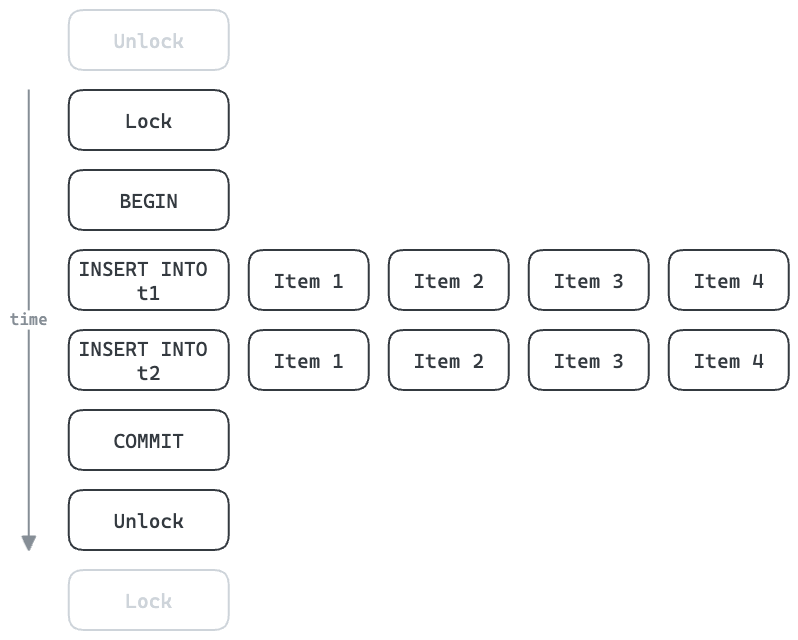
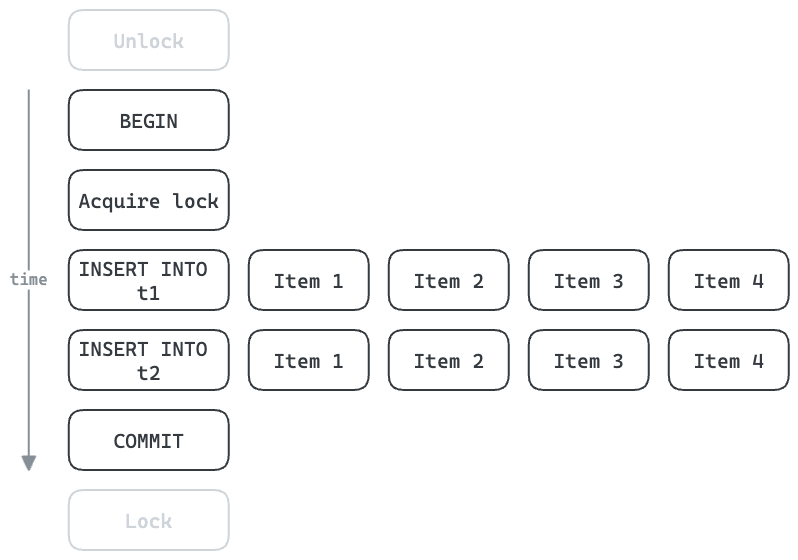
Update documentation

Changed region(s): [[0.0301, 0.0607, 0.9925, 1.0], [0.0902, 0.0, 0.2707, 0.0304], [0.3308, 0.3643, 0.4511, 0.3946]]

diff --git a/tests/mod.rs b/tests/mod.rs
@@ -13,11 +13,11 @@ struct SimpleBatchProcessor(Duration);
 impl Processor<String, String, String> for SimpleBatchProcessor {
     async fn process(
         &self,
-        _key: String,
+        key: String,
         inputs: impl Iterator<Item = String> + Send,
     ) -> Result<Vec<String>, String> {
         tokio::time::sleep(self.0).await;
-        Ok(inputs.map(|s| s + " processed").collect())
+        Ok(inputs.map(|s| s + " processed for " + &key).collect())
     }
 }
 
@@ -45,9 +45,9 @@ async fn strategy_size() {
 
     let (o1, o2, o3) = join!(h1, h2, h3);
 
-    assert_eq!("1 processed".to_string(), o1.unwrap());
-    assert_eq!("2 processed".to_string(), o2.unwrap());
-    assert_eq!("3 processed".to_string(), o3.unwrap());
+    assert_eq!("1 processed for A".to_string(), o1.unwrap());
+    assert_eq!("2 processed for A".to_string(), o2.unwrap());
+    assert_eq!("3 processed for A".to_string(), o3.unwrap());
 }
 
 /// Given we use a Size strategy
@@ -77,7 +77,7 @@ async fn strategy_size_loaded() {
 
     let outputs = join_all(tasks.into_iter()).await;
 
-    assert_eq!(outputs.last().unwrap(), "100 processed");
+    assert_eq!(outputs.last().unwrap(), "100 processed for key");
 }
 
 #[tokio::test]
@@ -88,11 +88,11 @@ async fn strategy_size_max_concurrency_limit() {
         BatchingPolicy::Size,
     );
 
-    // Two processed immediately
+    // Two processed for A immediately
     let h1 = tokio_test::task::spawn(batcher.add("A".to_string(), "1".to_string()));
     let h2 = tokio_test::task::spawn(batcher.add("A".to_string(), "2".to_string()));
 
-    // One processed after another finished
+    // One processed for A after another finished
     let h3 = tokio_test::task::spawn(batcher.add("A".to_string(), "3".to_string()));
 
     // One rejected
@@ -103,14 +103,14 @@ async fn strategy_size_max_concurrency_limit() {
 
     let (o1, o2, o3, o4, o5) = join!(h1, h2, h3, h4, h5);
 
-    assert_eq!("1 processed".to_string(), o1.unwrap());
-    assert_eq!("2 processed".to_string(), o2.unwrap());
-    assert_eq!("3 processed".to_string(), o3.unwrap());
+    assert_eq!("1 processed for A".to_string(), o1.unwrap());
+    assert_eq!("2 processed for A".to_string(), o2.unwrap());
+    assert_eq!("3 processed for A".to_string(), o3.unwrap());
     assert_eq!(
-        "Batch item rejected: max concurrency limit reached for key",
+        "Batch item rejected: the key has reached maximum concurrency",
         o4.unwrap_err().to_string()
     );
-    assert_eq!("1 processed".to_string(), o5.unwrap());
+    assert_eq!("1 processed for B".to_string(), o5.unwrap());
 }
 
 /// Given we use a Duration strategy
@@ -174,7 +174,7 @@ async fn strategy_duration_loaded_process_on_full() {
 
     let outputs = join_all(tasks.into_iter()).await;
 
-    assert_eq!(outputs.last().unwrap(), "100 processed");
+    assert_eq!(outputs.last().unwrap(), "100 processed for key");
 }
 
 /// Given we use a Duration strategy
@@ -226,7 +226,7 @@ async fn strategy_sequential_single() {
     let batcher = Batcher::new(
         SimpleBatchProcessor(processing_dur),
         Limits::default().max_batch_size(10).max_key_concurrency(1),
-        BatchingPolicy::Sequential,
+        BatchingPolicy::Immediate,
     );
 
     let handler = || async {
@@ -261,7 +261,7 @@ async fn strategy_sequential_dual() {
     let batcher = Batcher::new(
         SimpleBatchProcessor(processing_dur),
         Limits::default().max_batch_size(1).max_key_concurrency(2),
-        BatchingPolicy::Sequential,
+        BatchingPolicy::Immediate,
     );
 
     let handler = || async {
@@ -298,7 +298,7 @@ async fn strategy_sequential_single_with_wait() {
     let batcher = Batcher::new(
         SimpleBatchProcessor(processing_dur),
         Limits::default().max_batch_size(10).max_key_concurrency(1),
-        BatchingPolicy::Sequential,
+        BatchingPolicy::Immediate,
     );
 
     let handler = || async {
@@ -328,7 +328,7 @@ async fn strategy_sequential_single_full() {
     let batcher = Batcher::new(
         SimpleBatchProcessor(processing_dur),
         Limits::default().max_batch_size(100).max_key_concurrency(1),
-        BatchingPolicy::Sequential,
+        BatchingPolicy::Immediate,
     );
 
     let handler = |i: i32| {
@@ -343,7 +343,7 @@ async fn strategy_sequential_single_full() {
 
     let outputs = join_all(tasks.into_iter()).await;
 
-    assert_eq!(outputs.last().unwrap(), "101 processed");
+    assert_eq!(outputs.last().unwrap(), "101 processed for key");
 }
 
 /// Given we use a Sequential strategy with max concurrency = 1
@@ -358,7 +358,7 @@ async fn strategy_sequential_single_reject() {
     let batcher = Batcher::new(
         SimpleBatchProcessor(processing_dur),
         Limits::default().max_batch_size(100).max_key_concurrency(1),
-        BatchingPolicy::Sequential,
+        BatchingPolicy::Immediate,
     );
 
     let handler = |i: i32| {

diff --git a/src/batching.rs b/src/batching.rs
@@ -9,34 +9,26 @@ use crate::{batch::Batch, error::RejectionReason};
 #[derive(Debug)]
 #[non_exhaustive]
 pub enum BatchingPolicy {
-    /// Process the batch after the previous batch for the same key has finished.
+    /// Immediately process the batch if possible.
     ///
-    /// Rejects when the maximum limits have been reached.
-    Sequential,
+    /// Will process as many batches concurrently as the limit allows. When concurrency is
+    /// maximised, as soon as a batch finishes the next batch will start. When concurrency is
+    /// limited to 1, it will run batches serially.
+    Immediate,
 
     /// Process the batch when it reaches the maximum size.
-    ///
-    /// Rejects when the maximum limits have been reached.
     Size,
 
     /// Process the batch a given duration after it was created.
-    ///
-    /// When OnFull::Process is used, it will attempt to process the batch when the batch size
-    /// limit is reached.
-    ///
-    /// Rejects when the maximum limits have been reached.
     Duration(Duration, OnFull),
 
     /// Process the batch a given duration after the most recent item was added.
-    ///
-    /// When OnFull::Process is used, it will attempt to process the batch when the batch size
-    /// limit is reached.
-    ///
-    /// Rejects when the maximum limits have been reached.
     Debounce(Duration, OnFull),
 }
 
 /// A policy controlling limits on batch sizes and concurrency.
+///
+/// New items will be rejected when both the limits have been reached.
 #[derive(Debug)]
 #[non_exhaustive]
 pub struct Limits {
@@ -139,7 +131,7 @@ impl BatchingPolicy {
             }
             Self::Debounce(dur, _on_full) => PreAdd::AddAndProcessAfter(*dur),
 
-            Self::Sequential if batch.processing() < limits.max_key_concurrency => {
+            Self::Immediate if batch.processing() < limits.max_key_concurrency => {
                 PreAdd::AddAndProcess
             }
 
@@ -154,7 +146,7 @@ impl BatchingPolicy {
     ) -> PostFinish {
         if next_batch.processing() < limits.max_key_concurrency {
             match self {
-                BatchingPolicy::Sequential => PostFinish::Process,
+                BatchingPolicy::Immediate => PostFinish::Process,
                 _ => {
                     if next_batch.is_full(limits.max_batch_size) {
                         PostFinish::Process

diff --git a/src/error.rs b/src/error.rs
@@ -8,19 +8,25 @@ use tokio::sync::{mpsc::error::SendError, oneshot::error::RecvError};
 #[non_exhaustive]
 pub enum BatchError<E: Display> {
     /// Something went wrong while submitting an input for processing.
+    ///
+    /// Unrecoverable.
     #[error("Unable to send item to the worker for batching: channel closed")]
     Tx,
 
     /// Something went wrong while waiting for the output of a batch.
+    ///
+    /// Unrecoverable.
     #[error("Error while waiting for batch results: channel closed. {}", .0)]
     Rx(RecvError),
 
     /// The current batch is full so the item was rejected.
+    ///
+    /// Recoverable.
     #[error("Batch item rejected: {0}")]
     Rejected(RejectionReason),
 
     /// Something went wrong while processing a batch.
-    #[error("The entire batch failed with message: {}", .0)]
+    #[error("The entire batch failed: {}", .0)]
     BatchFailed(E),
 }
 
@@ -35,7 +41,7 @@ impl Display for RejectionReason {
     fn fmt(&self, f: &mut std::fmt::Formatter<'_>) -> std::fmt::Result {
         f.write_str(match self {
             RejectionReason::BatchFull => "the batch is full",
-            RejectionReason::MaxConcurrency => "max concurrency limit reached for key",
+            RejectionReason::MaxConcurrency => "the key has reached maximum concurrency",
         })
     }
 }

diff --git a/src/lib.rs b/src/lib.rs
@@ -1,6 +1,14 @@
-/*!
-Batch up multiple items for processing as a single unit.
-*/
+//! Batch up multiple items for processing as a single unit.
+//!
+//! _I got 99 problems, but a batch ain't one..._
+//!
+//! Sometimes it is more efficient to process many items at once rather than one at a time.
+//! Especially when the processing step has overheads which can be shared between many items.
+//!
+//! A worker task is run in the background and items are submitted to it for batching. Batches are
+//! processed in their own tasks, concurrently.
+//!
+//! See the README for an example.
 
 #![deny(missing_docs)]
 

diff --git a/src/batcher.rs b/src/batcher.rs
@@ -31,7 +31,7 @@ where
     item_tx: mpsc::Sender<BatchItem<K, I, O, E>>,
 }
 
-/// Process a batch of inputs.
+/// Process a batch of inputs for a given key.
 #[async_trait]
 pub trait Processor<K, I, O = (), E = String>
 where

diff --git a/README.md b/README.md
@@ -13,9 +13,9 @@ Batch up multiple items for processing as a single unit.
 
 Sometimes it is more efficient to process many items at once rather than one at a time. Especially when the processing step has overheads which can be shared between many items.
 
-### Example: Inserting multiple rows
+### Example: Inserting multiple rows into a database
 
-For example, each database operation, such as an `INSERT`, has the overhead of a round trip to the database.
+For example, each database operation – such as an `INSERT` – has the overhead of a round trip to the database.
 
 ![Unbatched example](./docs/images/example-insert-unbatched.png)
 
@@ -23,69 +23,84 @@ Multi-row inserts can share this overhead between many items. This also allows u
 
 ![Batched example](./docs/images/example-insert-batched.png)
 
-### Example: With locking and transactions
+### Example: With transactions and locking
 
-Insert into database tables can often be done concurrently. In cases where these must be done serially, throughput can suffer. In the example below, six round trips to the database are necessary for each item. All subsequent items must wait until this is finished.
+Inserts into database tables can often be done concurrently. In some cases these must be done serially, enforced using locks. This can be a significant throughput bottleneck.
 
-If each round trip takes 1ms, then this results in a minimum of 6ms per item, or 167 items/sec maximum.
+In the example below, five round trips to the database are necessary for each item. All subsequent items must wait until this is finished. If each round trip takes 1ms, then this results in a minimum of 5ms per item, or 200 items/sec maximum.
 
 ![Unbatched example](./docs/images/example-unbatched.png)
 
-With batching, we can improve the throughput. Acquiring/releasing the lock and beginning/committing the transaction can be shared for the whole batch. With four items per batch, we can increase the theoretical maximum throughput to 667 items/sec. In reality each `INSERT` will take longer, but the multi-row inserts are likely to share some overheads in a similar way.
+With batching, we can improve the throughput. Acquiring/releasing the lock and beginning/committing the transaction can be shared for the whole batch. With four items per batch, we can increase the theoretical maximum throughput to 800 items/sec. In reality, the more rows each `INSERT` processes the longer it will take, but multi-row inserts can be [very efficient](https://json.codes/posts/databases/postgres-multi-row-insert/).
 
 ![Batched example](./docs/images/example-batched.png)
+
+## How
+
+A worker task is run in the background and items are submitted to it for batching. Batches are processed in their own tasks, concurrently.
 
 ## Example
 
 ```rust
-use std::{marker::Send, sync::Arc};
+use std::{time::Duration, marker::Send, sync::Arc};
 
 use async_trait::async_trait;
-use batch_aint_one::{Batcher, BatchingPolicy, Processor, Limits};
+use batch_aint_one::{Batcher, BatchingPolicy, Limits, Processor};
 
+/// A simple processor which just sleeps then returns a mapped version
+/// of the inputs.
 #[derive(Debug, Clone)]
-struct SimpleBatchProcessor;
+struct SleepyBatchProcessor;
 
 #[async_trait]
-impl Processor<String, String, String> for SimpleBatchProcessor {
+impl Processor<String, String, String> for SleepyBatchProcessor {
     async fn process(
         &self,
         key: String,
         inputs: impl Iterator<Item = String> + Send,
     ) -> Result<Vec<String>, String> {
+        tokio::time::sleep(Duration::from_millis(10)).await;
         // In this example:
-        // - `key`: "A"
-        // - `inputs`: ["1", "2"]
-        Ok(inputs.map(|s| s + " processed").collect())
+        // - `key`: "Key A"
+        // - `inputs`: ["Item 1", "Item 2"]
+        Ok(inputs.map(|s| s + " processed for " + &key).collect())
     }
 }
 
 tokio_test::block_on(async {
+    // Create a new batcher.
+    // Put it in an Arc so we can share it between handlers.
     let batcher = Arc::new(Batcher::new(
-        SimpleBatchProcessor,
+        // This will process items in a background worker task.
+        SleepyBatchProcessor,
+
+        // Set some limits.
         Limits::default()
           .max_batch_size(2)
           .max_key_concurrency(1),
+
+        // Process a batch when it reaches the max_batch_size.
         BatchingPolicy::Size,
     ));
 
     // Request handler 1
-    let b1 = batcher.clone();
+    let batcher1 = batcher.clone();
     tokio::spawn(async move {
-        let output = b1.add("A".to_string(), "1".to_string()).await.unwrap();
+        // Add an item to be processed and wait for the result.
+        let output = batcher1.add("Key A".to_string(), "Item 1".to_string()).await.unwrap();
 
-        assert_eq!("1 processed".to_string(), output);
+        assert_eq!("Item 1 processed for Key A".to_string(), output);
     });
 
     // Request handler 2
-    let b2 = batcher.clone();
+    let batcher2 = batcher.clone();
     tokio::spawn(async move {
-        let output = b2.add("A".to_string(), "2".to_string()).await.unwrap();
+        // Add an item to be processed and wait for the result.
+        let output = batcher2.add("Key A".to_string(), "Item 2".to_string()).await.unwrap();
 
-        assert_eq!("2 processed".to_string(), output);
+        assert_eq!("Item 2 processed for Key A".to_string(), output);
     });
 });
-
 ```
 
 ## Roadmap
@@ -96,7 +111,7 @@ tokio_test::block_on(async {
 - [x] Docs
   - [x] Why – motivating example
   - [x] Code examples
-- [x] Observability
+- [x] Tracing/logging
 - [ ] Metrics?
 
 ## Further reading
